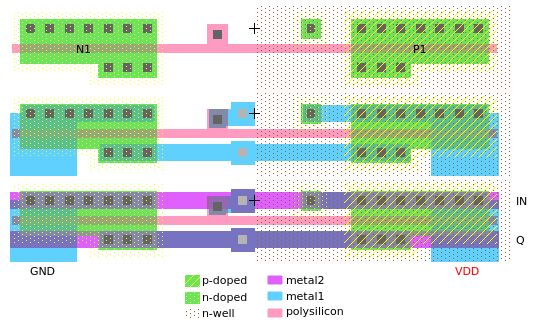
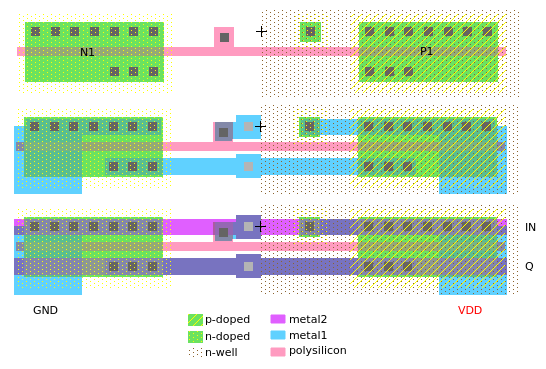
Update images of INV_A, INV_B and NAND2, Add NAND2S

diff --git a/doc/dmg_cells.html b/doc/dmg_cells.html
@@ -64,6 +64,7 @@ Some I/O pads were also renamed, because the names did not fit the official docu
    <li><a href="#nand">NAND gates</a>
     <ul>
      <li><a href="#nand2">NAND2</a></li>
+     <li><a href="#nand2s">NAND2 - Spare Variant</a></li>
      <li><a href="#nand3">NAND3</a></li>
      <li><a href="#nand4">NAND4</a></li>
      <li><a href="#nand5">NAND5</a></li>
@@ -172,7 +173,7 @@ Some I/O pads were also renamed, because the names did not fit the official docu
 <h4 id="inv_a">INVERTER - Variant A</h4>
 <p>Simple inverter.</p>
 <table>
-<tr><td><img src="img/cells/inv_a_atar_yvom_desc.png?v=0" style="min-width:300px;" alt=""></td>
+<tr><td><img src="img/cells/inv_a_atar_ynur_ycux_desc.png?v=0" style="min-width:300px;" alt=""></td>
 <td><table class="default">
 <tr><th>I/O</th><th>Description</th></tr>
 <tr><td><i>IN</i></td>
@@ -181,7 +182,7 @@ Some I/O pads were also renamed, because the names did not fit the official docu
 <td>Outputs inverted <i>IN</i>.</td></tr>
 </table></td></tr>
 </table>
-<p><img src="img/cells/inv_a_layout.png?v=0" alt=""></p>
+<p><img src="img/cells/inv_a_layout.png?v=1" alt=""></p>
 <p><img src="img/cells/inv_a_sch.png?v=0" alt=""></p>
 <p>Instances:
 <a href="/dmg_cpu_b_map/?view=c:abaf">ABAF</a>
@@ -936,7 +937,7 @@ Some I/O pads were also renamed, because the names did not fit the official docu
 <h4 id="inv_b">INVERTER - Variant B</h4>
 <p>Inverter with higher driving strength.</p>
 <table>
-<tr><td><img src="img/cells/inv_b_efug_fado_desc.png?v=0" style="min-width:300px;" alt=""></td>
+<tr><td><img src="img/cells/inv_b_efug_fado_wovu_desc.png?v=0" style="min-width:300px;" alt=""></td>
 <td><table class="default">
 <tr><th>I/O</th><th>Description</th></tr>
 <tr><td><i>IN</i></td>
@@ -945,7 +946,7 @@ Some I/O pads were also renamed, because the names did not fit the official docu
 <td>Outputs inverted <i>IN</i>.</td></tr>
 </table></td></tr>
 </table>
-<p><img src="img/cells/inv_b_layout.png?v=0" alt=""></p>
+<p><img src="img/cells/inv_b_layout.png?v=1" alt=""></p>
 <p><img src="img/cells/inv_b_sch.png?v=0" alt=""></p>
 <p>Instances:
 <a href="/dmg_cpu_b_map/?view=c:abef">ABEF</a>
@@ -1229,7 +1230,7 @@ Some I/O pads were also renamed, because the names did not fit the official docu
 <h4 id="nand2">NAND2</h4>
 <p>NAND gate with two inputs.</p>
 <table>
-<tr><td><img src="img/cells/rylu_desc.png?v=0" style="min-width:300px;" alt=""></td>
+<tr><td><img src="img/cells/nand2_lela_avet_zado_desc.png?v=0" style="min-width:300px;" alt=""></td>
 <td><table class="default">
 <tr><th>I/O</th><th>Description</th></tr>
 <tr><td><i>IN1</i>, <i>IN2</i></td>
@@ -1238,7 +1239,8 @@ Some I/O pads were also renamed, because the names did not fit the official docu
 <td>Outputs <code>!(IN1 &amp;&amp; IN2)</code>.</td></tr>
 </table></td></tr>
 </table>
-<p><img src="img/cells/nand2_sch.png?v=0" alt=""></p>
+<p><img src="img/cells/nand2_layout.png?v=0" alt=""></p>
+<p><img src="img/cells/nand2_sch.png?v=1" alt=""></p>
 <p>Instances:
 <a href="/dmg_cpu_b_map/?view=c:afeg">AFEG</a>
 <a href="/dmg_cpu_b_map/?view=c:agyn">AGYN</a>
@@ -1466,6 +1468,41 @@ Some I/O pads were also renamed, because the names did not fit the official docu
 <a href="/dmg_cpu_b_map/?view=c:xyve">XYVE</a>
 <a href="/dmg_cpu_b_map/?view=c:zado">ZADO</a>
 (225 total)
+</p>
+<h4 id="nand2s">NAND2 - Spare Variant</h4>
+<p>NAND gate with two inputs.</p>
+</p>This variant of the NAND2 gate is only used for some spare cells.</p>
+<table>
+<tr><td><img src="img/cells/nand2s_ybyw_ybyw_ynuj_desc.png?v=0" style="min-width:300px;" alt=""></td>
+<td><table class="default">
+<tr><th>I/O</th><th>Description</th></tr>
+<tr><td><i>IN1</i>, <i>IN2</i></td>
+<td>Inputs to NAND gate.</td></tr>
+<tr><td><i>Q</i></td>
+<td>Outputs <code>!(IN1 &amp;&amp; IN2)</code>.</td></tr>
+</table></td></tr>
+</table>
+<p><img src="img/cells/nand2s_layout.png?v=0" alt=""></p>
+<p><img src="img/cells/nand2_sch.png?v=1" alt=""></p>
+<p>Instances:
+<a href="/dmg_cpu_b_map/?view=c:ybyw">YBYW</a>
+<a href="/dmg_cpu_b_map/?view=c:ycaw">YCAW</a>
+<a href="/dmg_cpu_b_map/?view=c:ydos">YDOS</a>
+<a href="/dmg_cpu_b_map/?view=c:yfal">YFAL</a>
+<a href="/dmg_cpu_b_map/?view=c:yhes">YHES</a>
+<a href="/dmg_cpu_b_map/?view=c:yjag">YJAG</a>
+<a href="/dmg_cpu_b_map/?view=c:ykor">YKOR</a>
+<a href="/dmg_cpu_b_map/?view=c:ykus">YKUS</a>
+<a href="/dmg_cpu_b_map/?view=c:ykyt">YKYT</a>
+<a href="/dmg_cpu_b_map/?view=c:yloh">YLOH</a>
+<a href="/dmg_cpu_b_map/?view=c:ymeb">YMEB</a>
+<a href="/dmg_cpu_b_map/?view=c:ynuj">YNUJ</a>
+<a href="/dmg_cpu_b_map/?view=c:ynyv">YNYV</a>
+<a href="/dmg_cpu_b_map/?view=c:ytob">YTOB</a>
+<a href="/dmg_cpu_b_map/?view=c:ytor">YTOR</a>
+<a href="/dmg_cpu_b_map/?view=c:yxaj">YXAJ</a>
+<a href="/dmg_cpu_b_map/?view=c:yxow">YXOW</a>
+(17 total)
 </p>
 <h4 id="nand3">NAND3</h4>
 <p>NAND gate with three inputs.</p>
